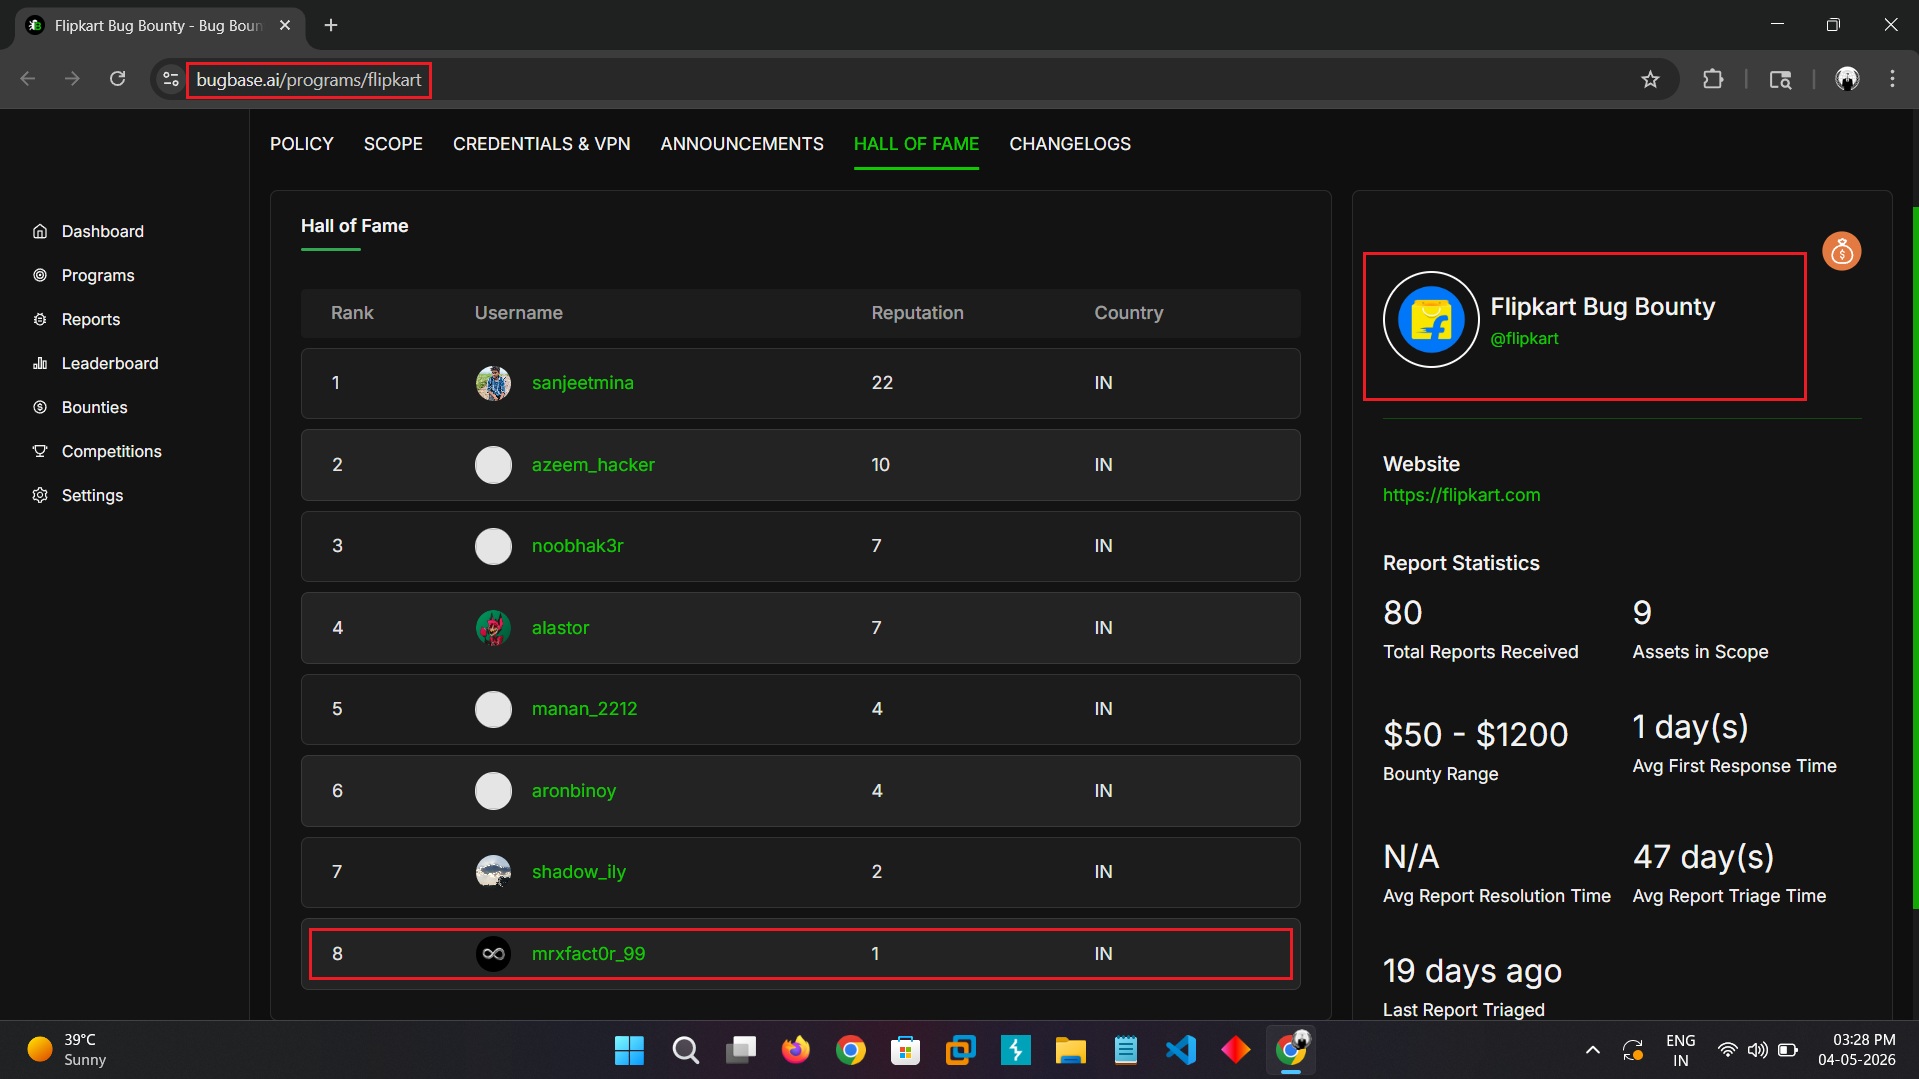
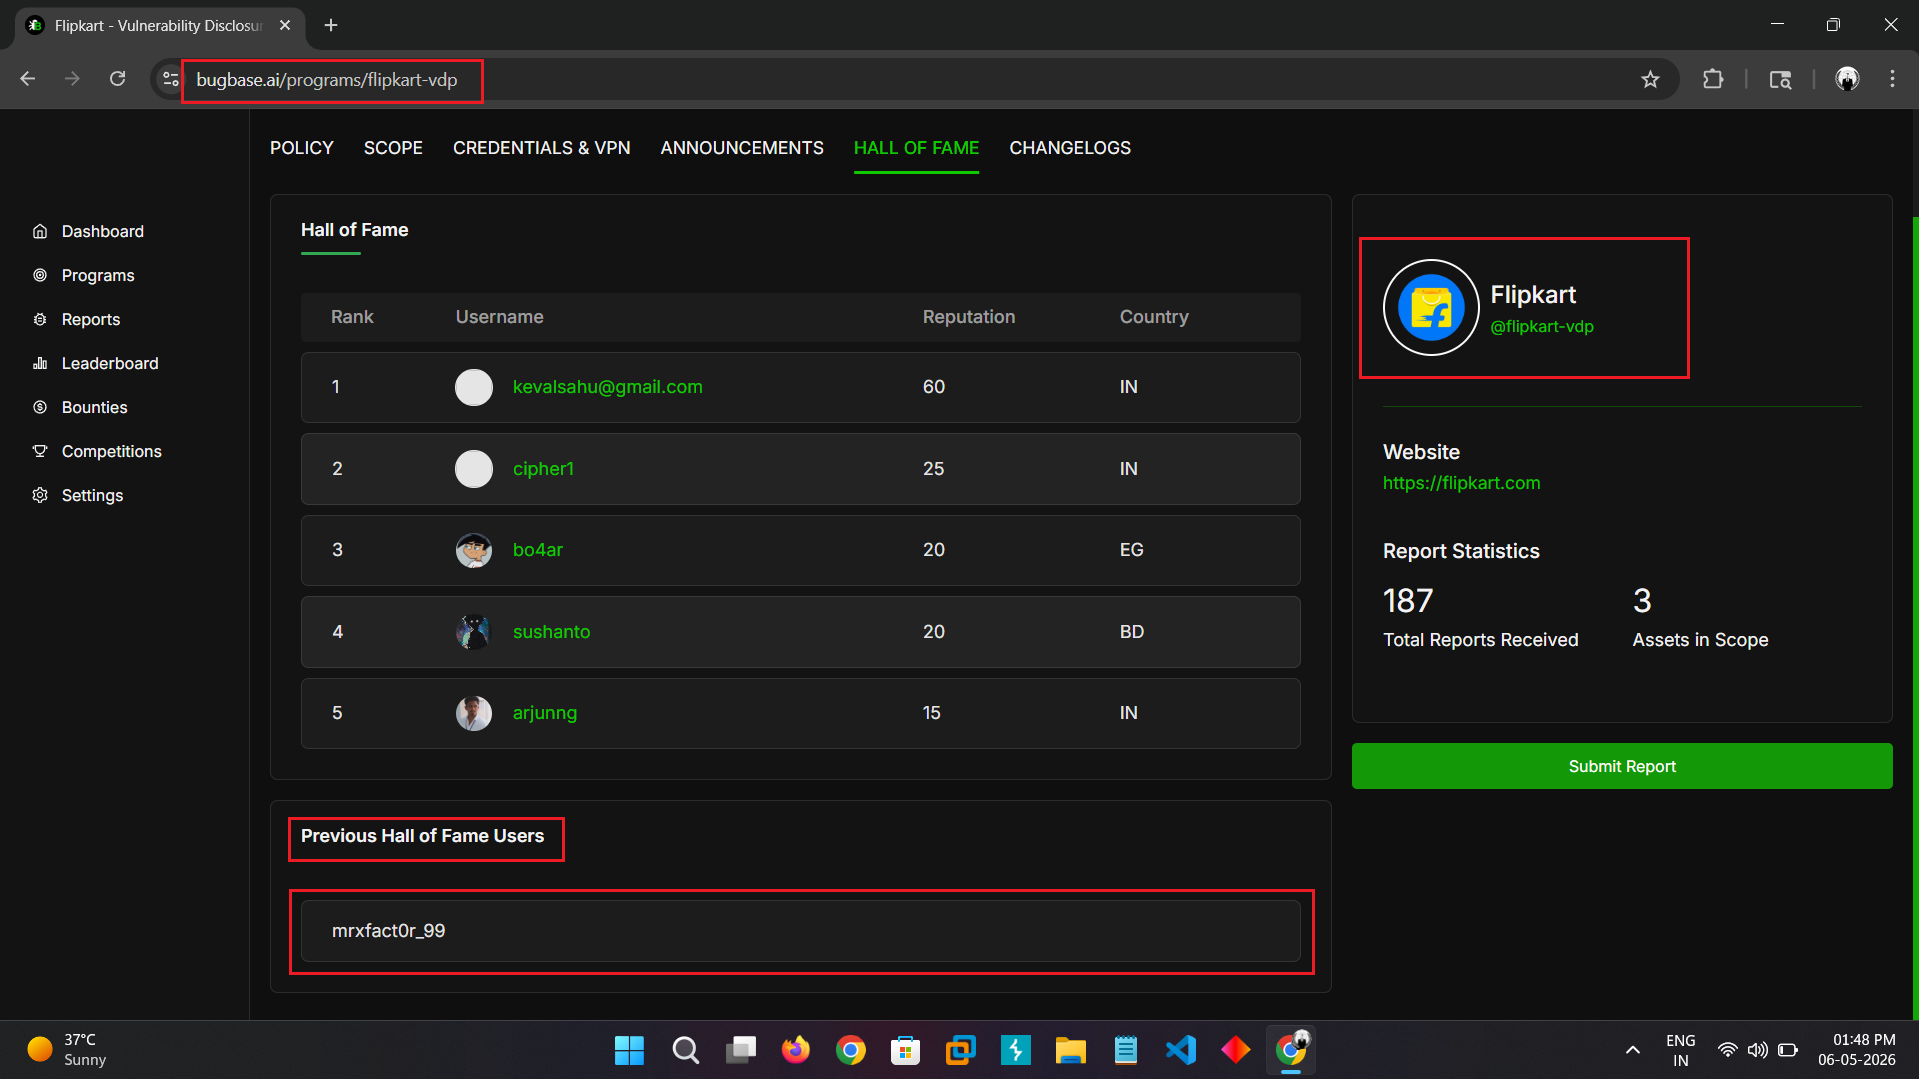
Update

diff --git a/articles/index-52.html b/articles/index-52.html
@@ -207,10 +207,63 @@
                     hall of fame 🙃
                 </p>
 
+                <h3>🔄 The Unexpected Twist</h3>
+
+
+                <p>
+                    After Flipkart confirmed my <strong>Hall of Fame</strong> recognition, I was really excited and
+                    waited for my name to appear 🎉🏆
+                </p>
+
+                <p>
+                    But even after <strong>3 months</strong>, there were no updates 😕⏳
+                </p>
+
+                <p>
+                    So, I decided to raise a support ticket with the Bugbase support team 📩.
+                    Unfortunately, I didn’t receive any response from them either ❌
+                </p>
+
+                <p>
+                    After multiple follow-ups and a long wait, I finally received a reply.
+                    They informed me that <strong>Flipkart was removing its program from the Bugbase platform</strong>
+                    🔄
+                </p>
+
+                    <div style="text-align: center; margin: 20px 0;">
+                    <img src="images/Bugbase_Second.png"
+                        style="max-width: 60%; height: auto; border: 2px solid black; border-radius: 8px; box-shadow: 0 0 12px rgba(0,0,0,0.1);"
+                        alt="Panasonic Response">
+                </div>
+
+                <p>
+                    Later, I noticed something unexpected…
+                </p>
+
+                <div style="text-align: center; margin: 20px 0;">
+                    <img src="images/Bugbase_Response.png"
+                        style="max-width: 60%; height: auto; border: 2px solid black; border-radius: 8px; box-shadow: 0 0 12px rgba(0,0,0,0.1);"
+                        alt="Panasonic Response">
+                </div>
+
+                <p>
+                    Instead of being listed under the <strong>private program</strong> (where I was originally invited),
+                    my name was added to the <strong>public bug bounty program Hall of Fame</strong> 🐛📜
+                </p>
+
+                <p>
+                    Honestly, I’m still not sure why this change happened 🤔
+                </p>
+
+                <p>
+                    But after sending multiple emails and waiting for so long,
+                    I’m just happy that <strong>my name was finally added</strong> 🙌✨
+                </p>
+
                 <p>
                     Hall Of Fame:
-                    <a href="https://bugbase.ai/programs/flipkart">
-                        https://bugbase.ai/programs/flipkart
+                    <a href="https://bugbase.ai/programs/flipkart-vdp">
+                        https://bugbase.ai/programs/flipkart-vdp
                     </a>
                 </p>
 
